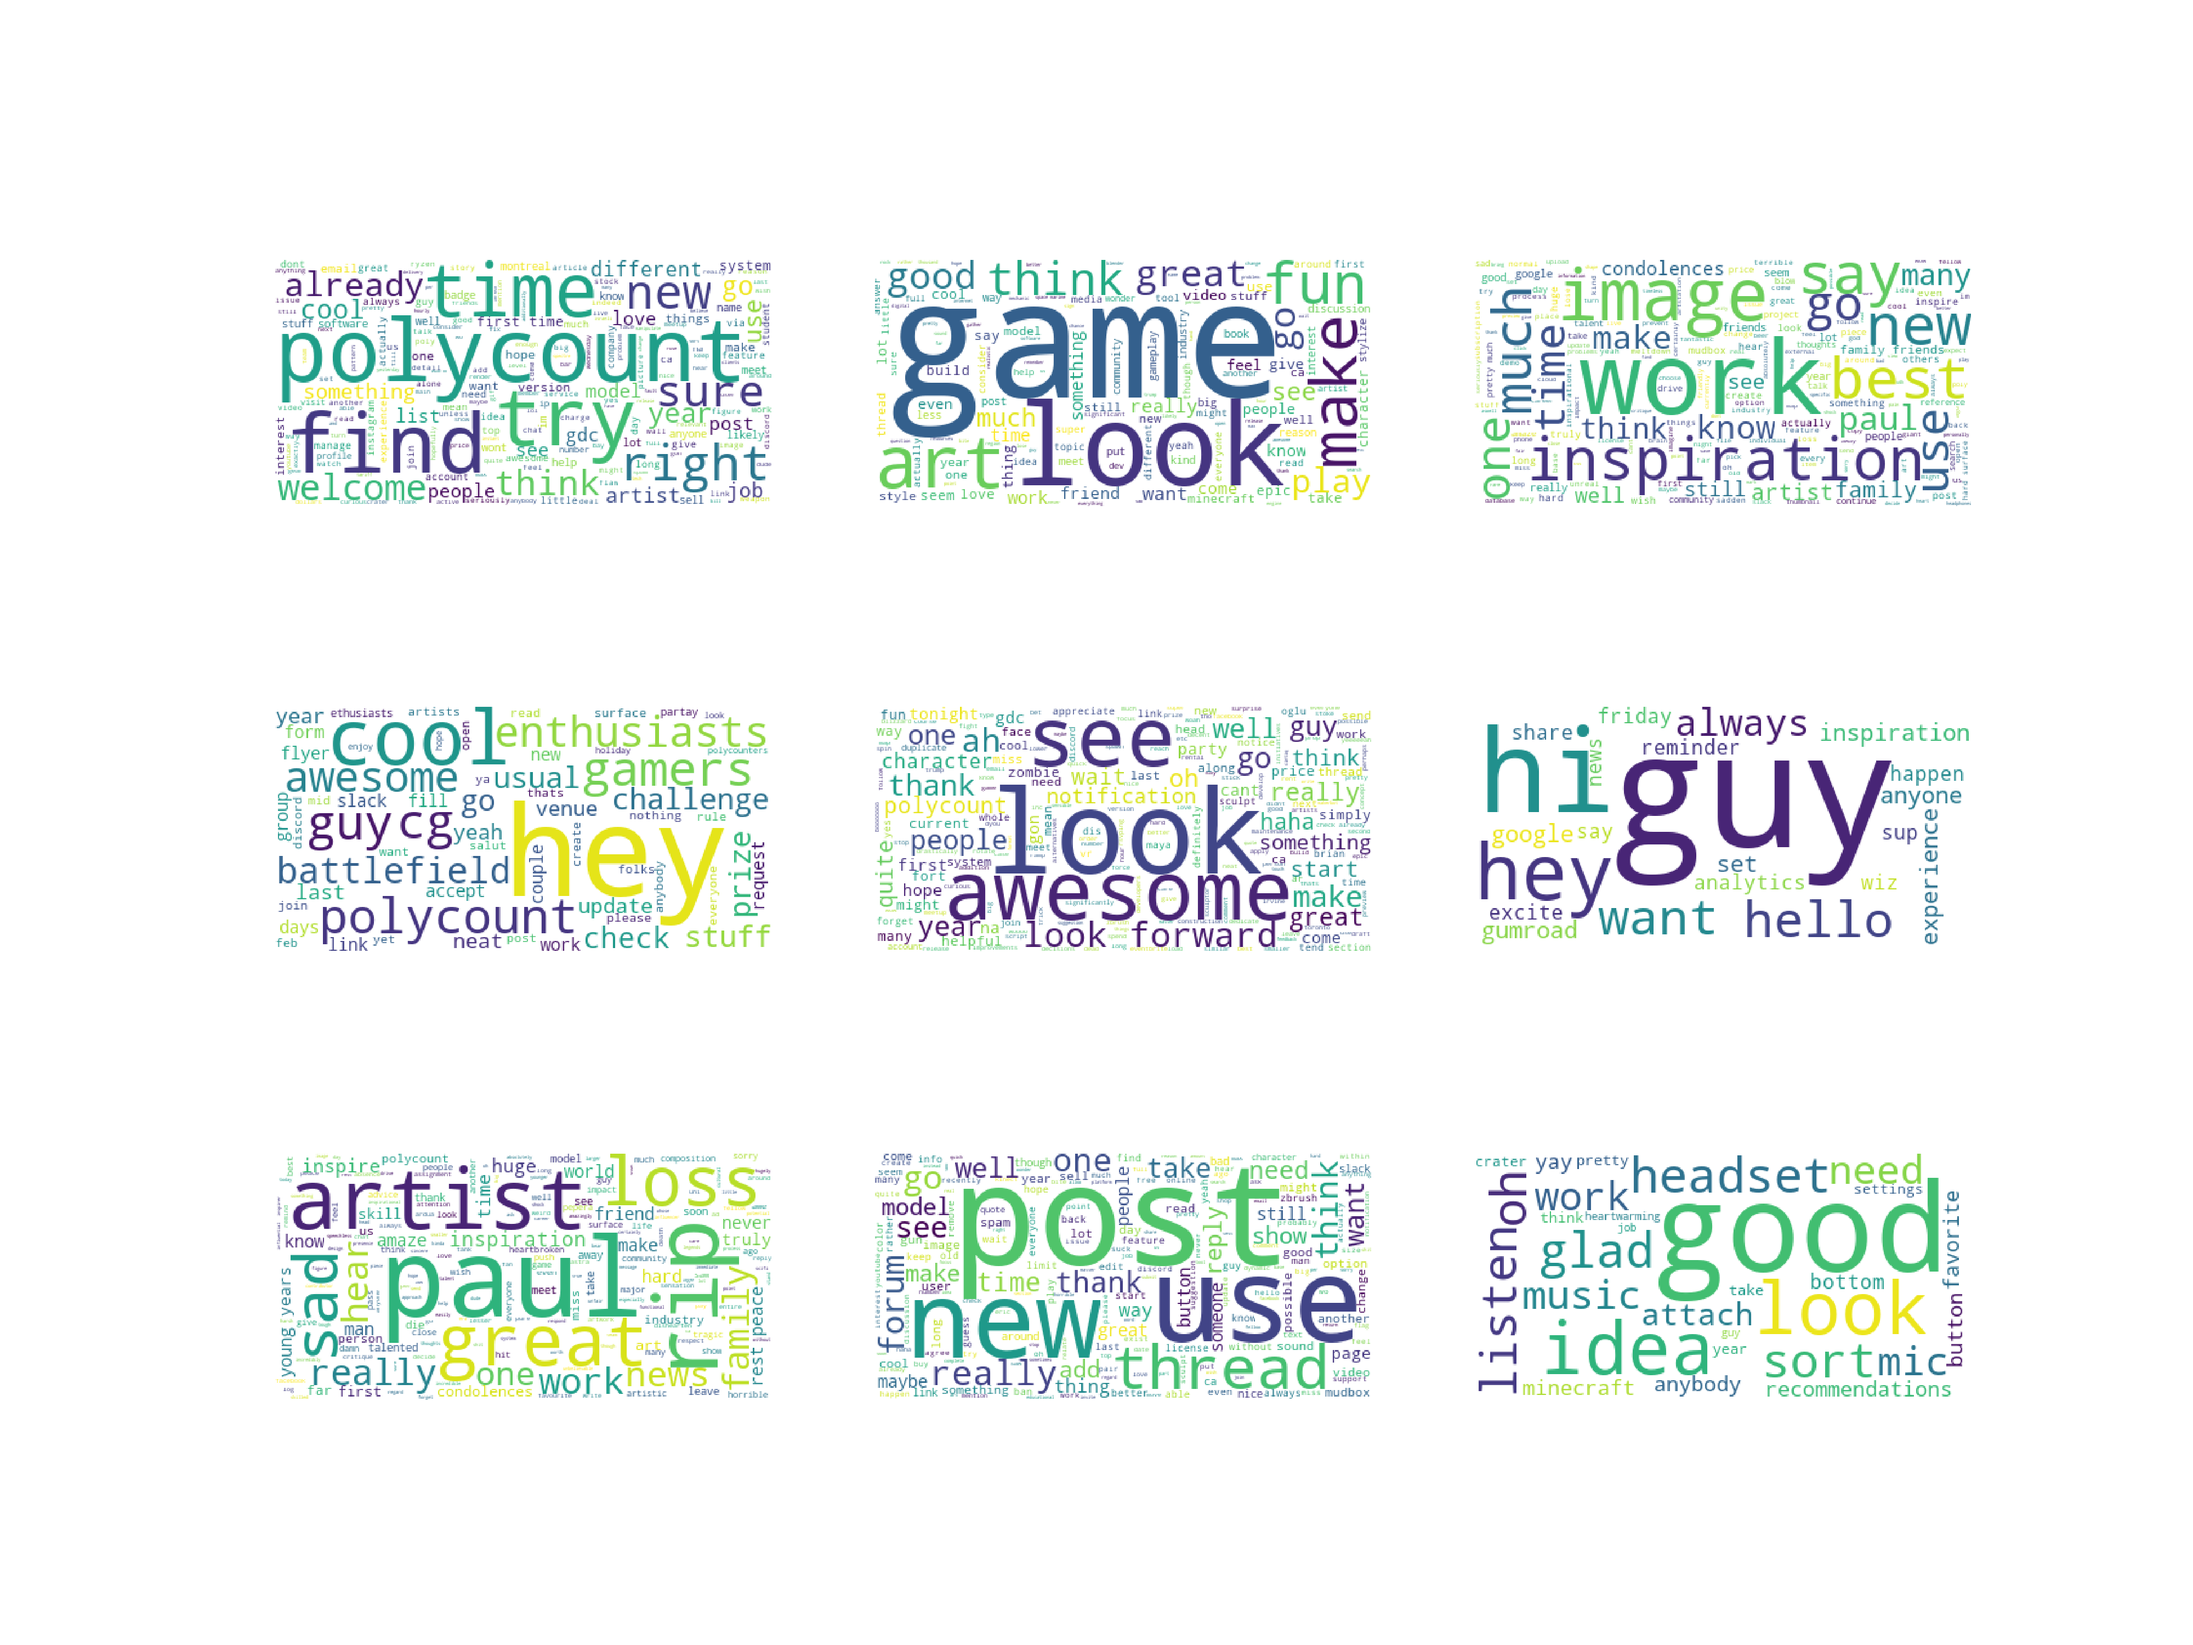
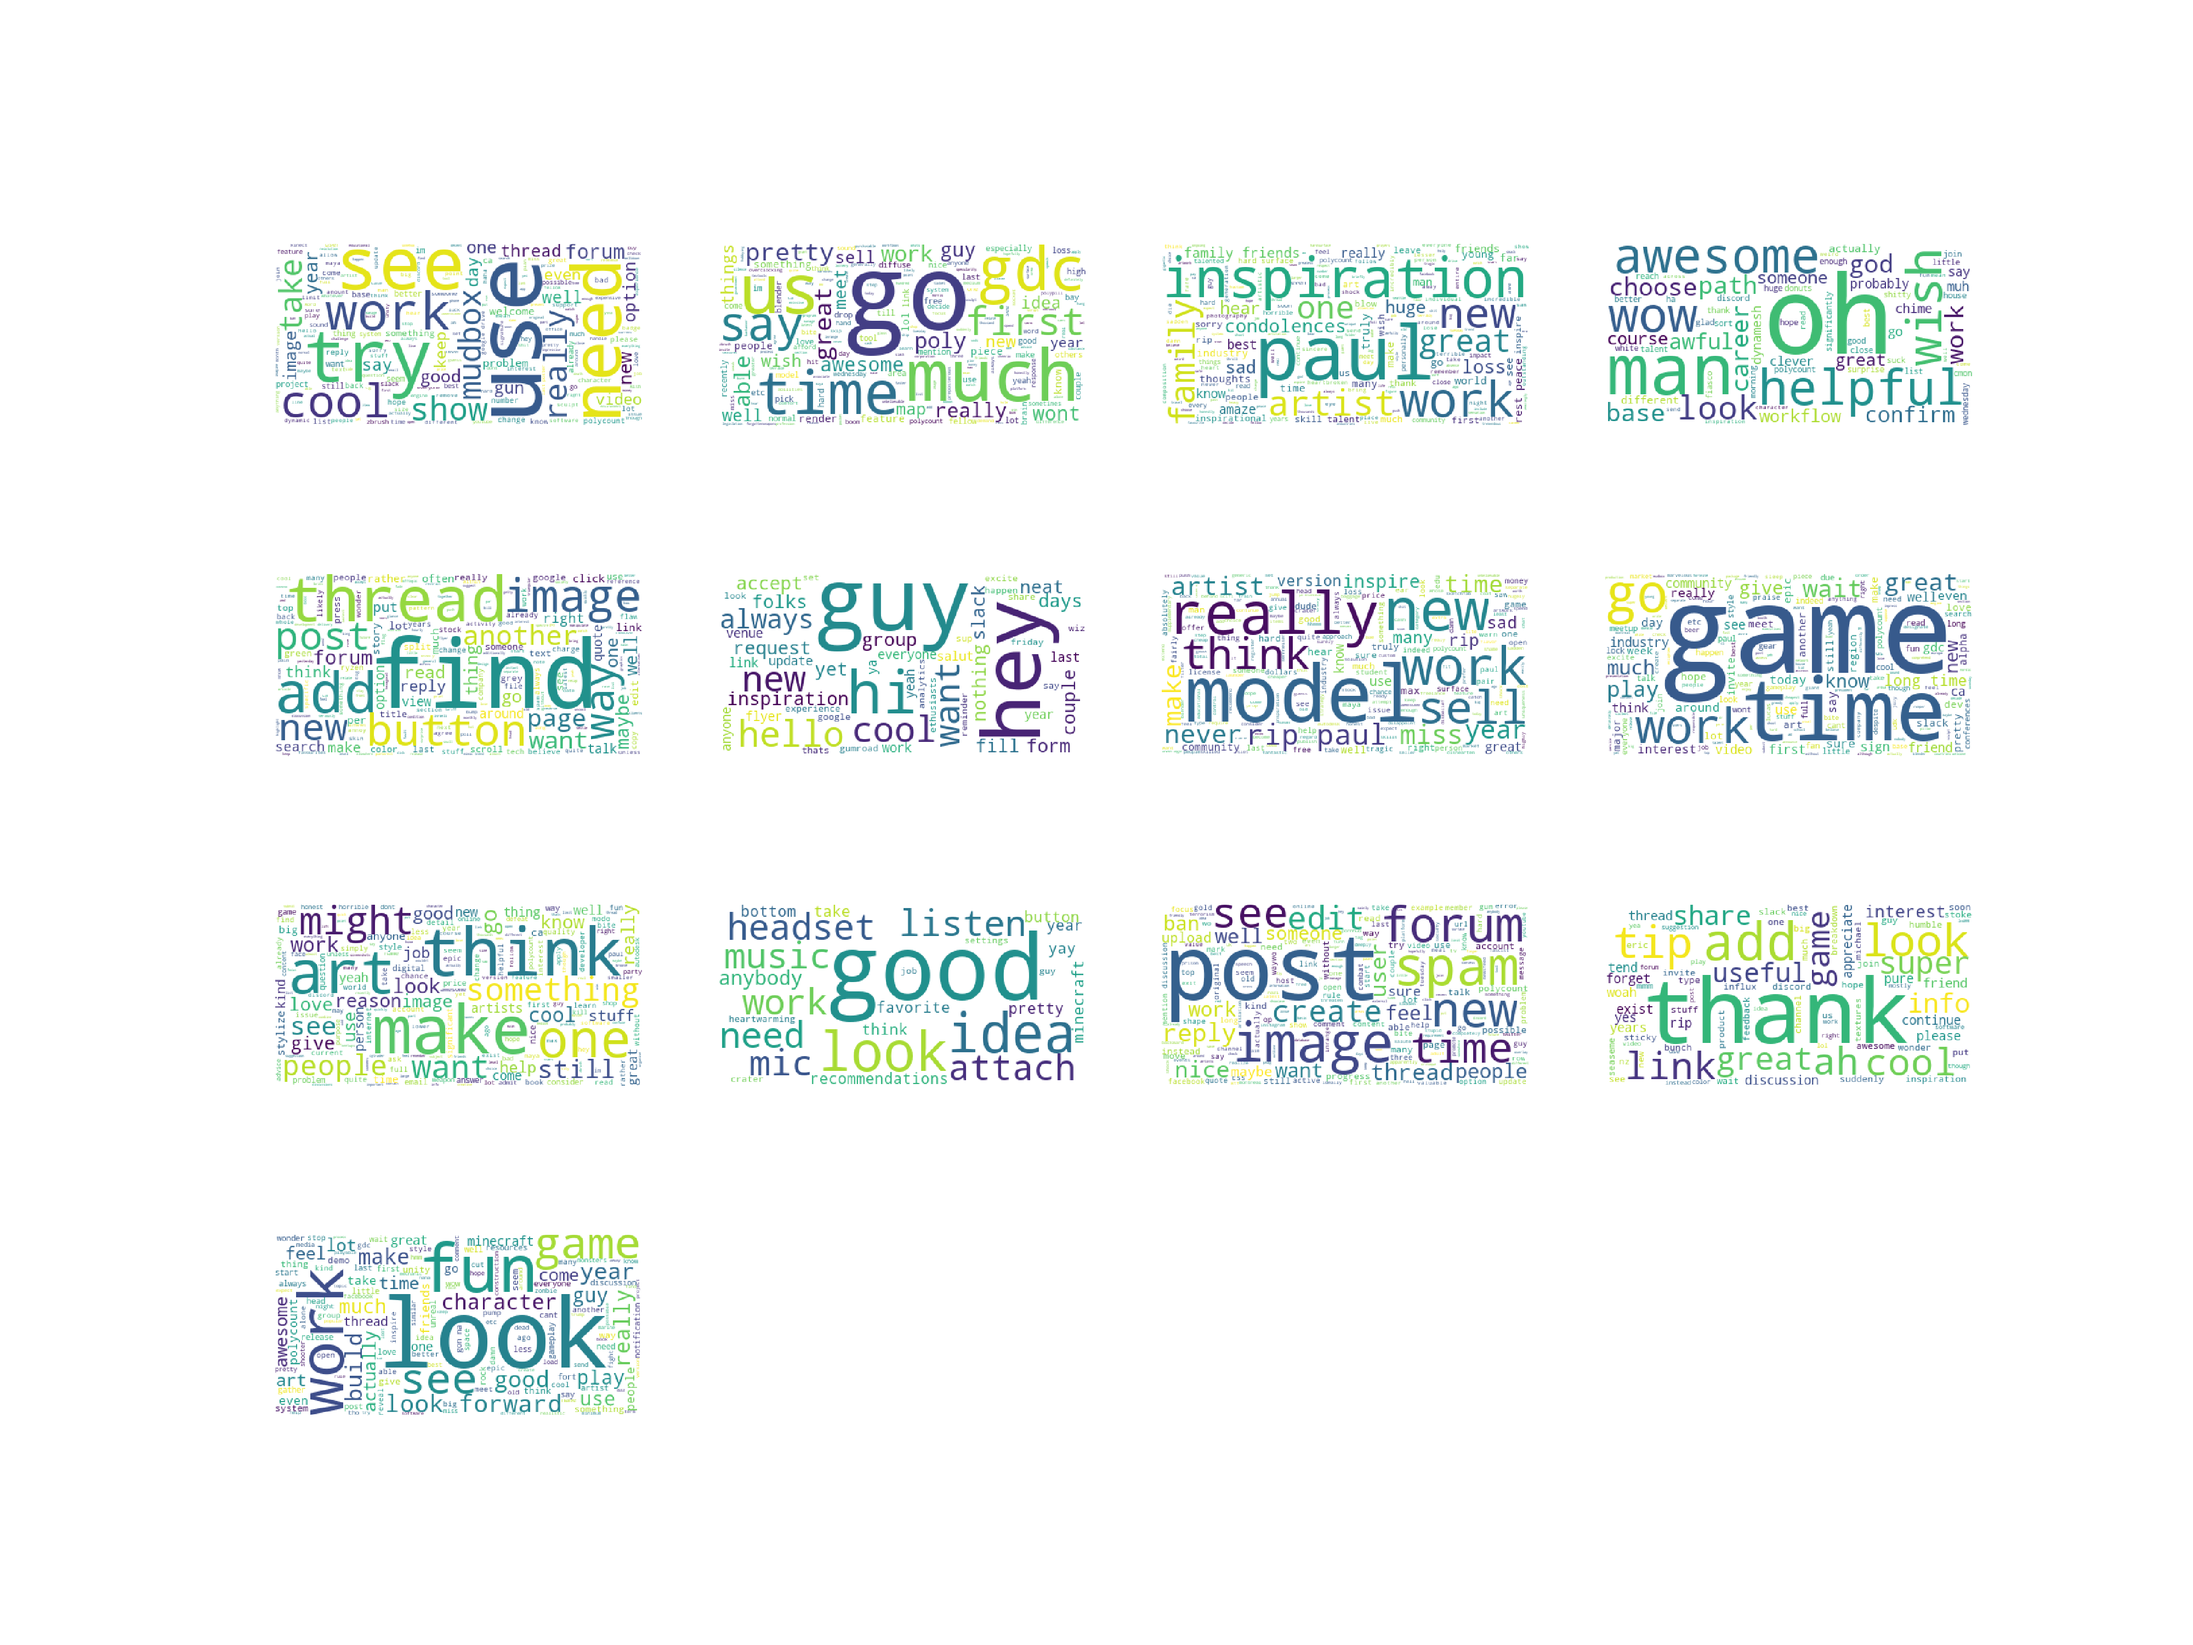
update cloud building

Changed region(s): [[0.125, 0.341, 0.9062, 0.868], [0.125, 0.155, 0.9062, 0.31], [0.6562, 0.682, 0.9062, 0.868]]

diff --git a/ML_process.py b/ML_process.py
@@ -35,7 +35,7 @@ def clusterize(count_of_clusters: int, matrix: scipy.matrix):
     return model.predict(matrix)
 
 
-def build_clouds(model, count_of_clusters: int, messages):
+def build_clouds(model, count_of_clusters: int, messages, filepath: str):
     result_cloud = plt.figure(figsize=(40, 30))
     for num_of_cluster in range(count_of_clusters):
         text = ""
@@ -45,16 +45,12 @@ def build_clouds(model, count_of_clusters: int, messages):
                 print(cluster, "-", idx, "-", messages[idx])
                 text += messages[idx] + " "
         if len(text) > 0:
-            word_cloud = WordCloud(
-                background_color='white'
-            ).generate(text)
-            result_cloud.add_subplot(
-                math.ceil(count_of_clusters / 3),
-                3,
-                num_of_cluster + 1
-            )
+            word_cloud = WordCloud(background_color='white').generate(text)
+            width = math.ceil(math.sqrt(count_of_clusters))
+            height = round(math.sqrt(count_of_clusters))
+            result_cloud.add_subplot(height, width, num_of_cluster + 1)
             plt.axis('off')
             plt.imshow(word_cloud)
-    plt.savefig('images/tags_cloud.png')
+    plt.savefig(filepath)
     plt.show()
 

diff --git a/main.py b/main.py
@@ -3,12 +3,12 @@ from database import Database
 
 
 def main():
-    count_of_clusters = 9
+    count_of_clusters = 13
     db = Database()
     prepared_messages = prepare_messages(db.get_text_from_messages())
     matrix = vectorize_messages(prepared_messages)
     model = clusterize(count_of_clusters, matrix)
-    build_clouds(model, count_of_clusters, prepared_messages)
+    build_clouds(model, count_of_clusters, prepared_messages, 'images/tags_cloud.png')
     db.close()
 
 
